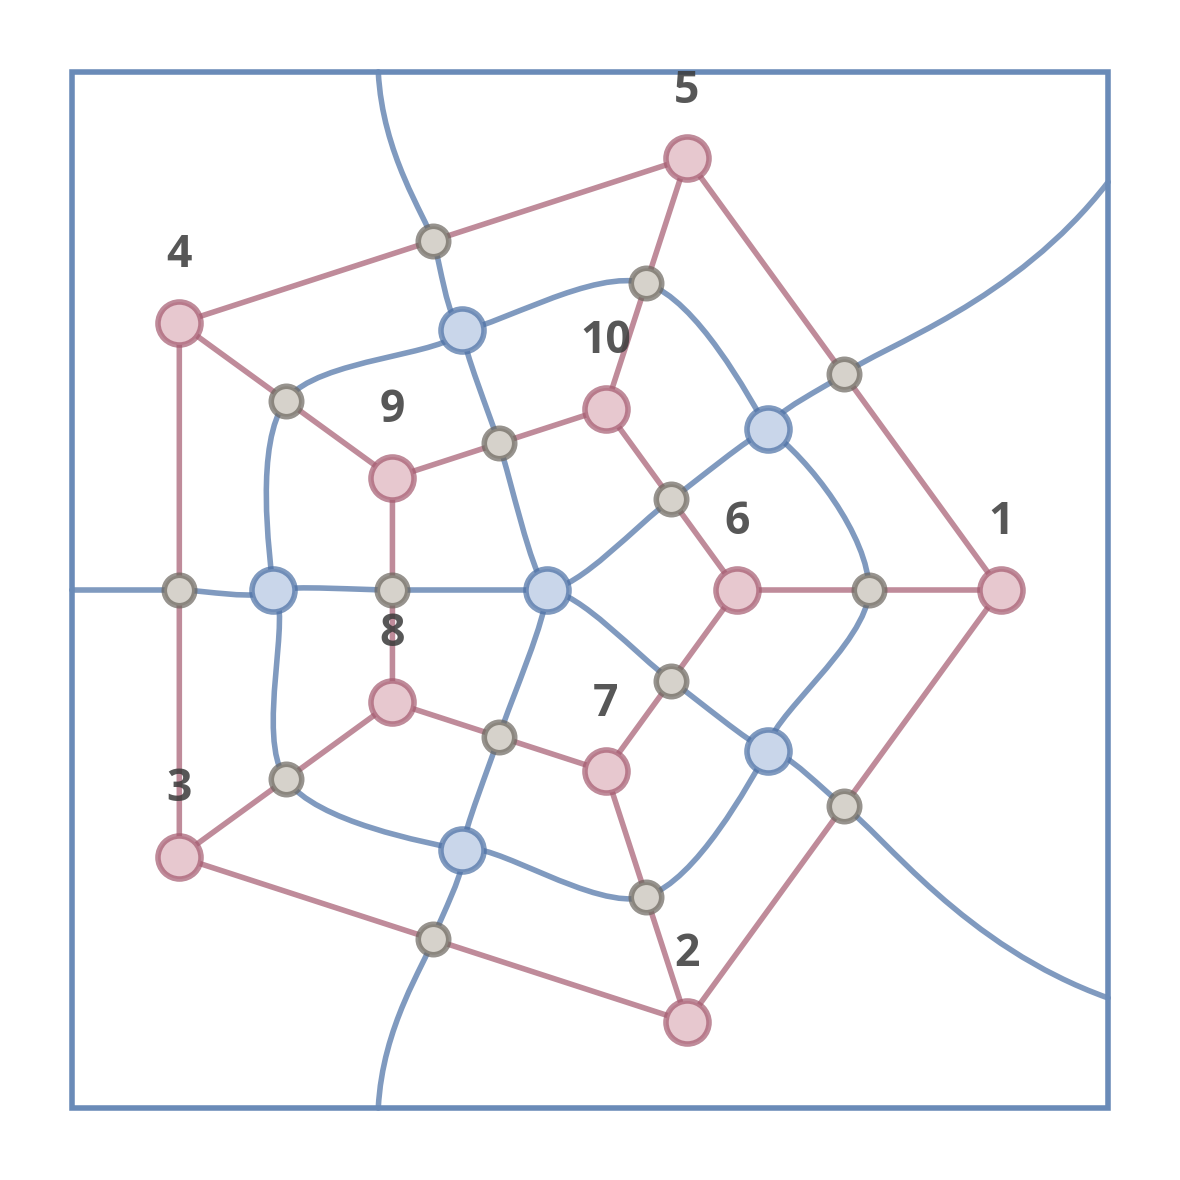
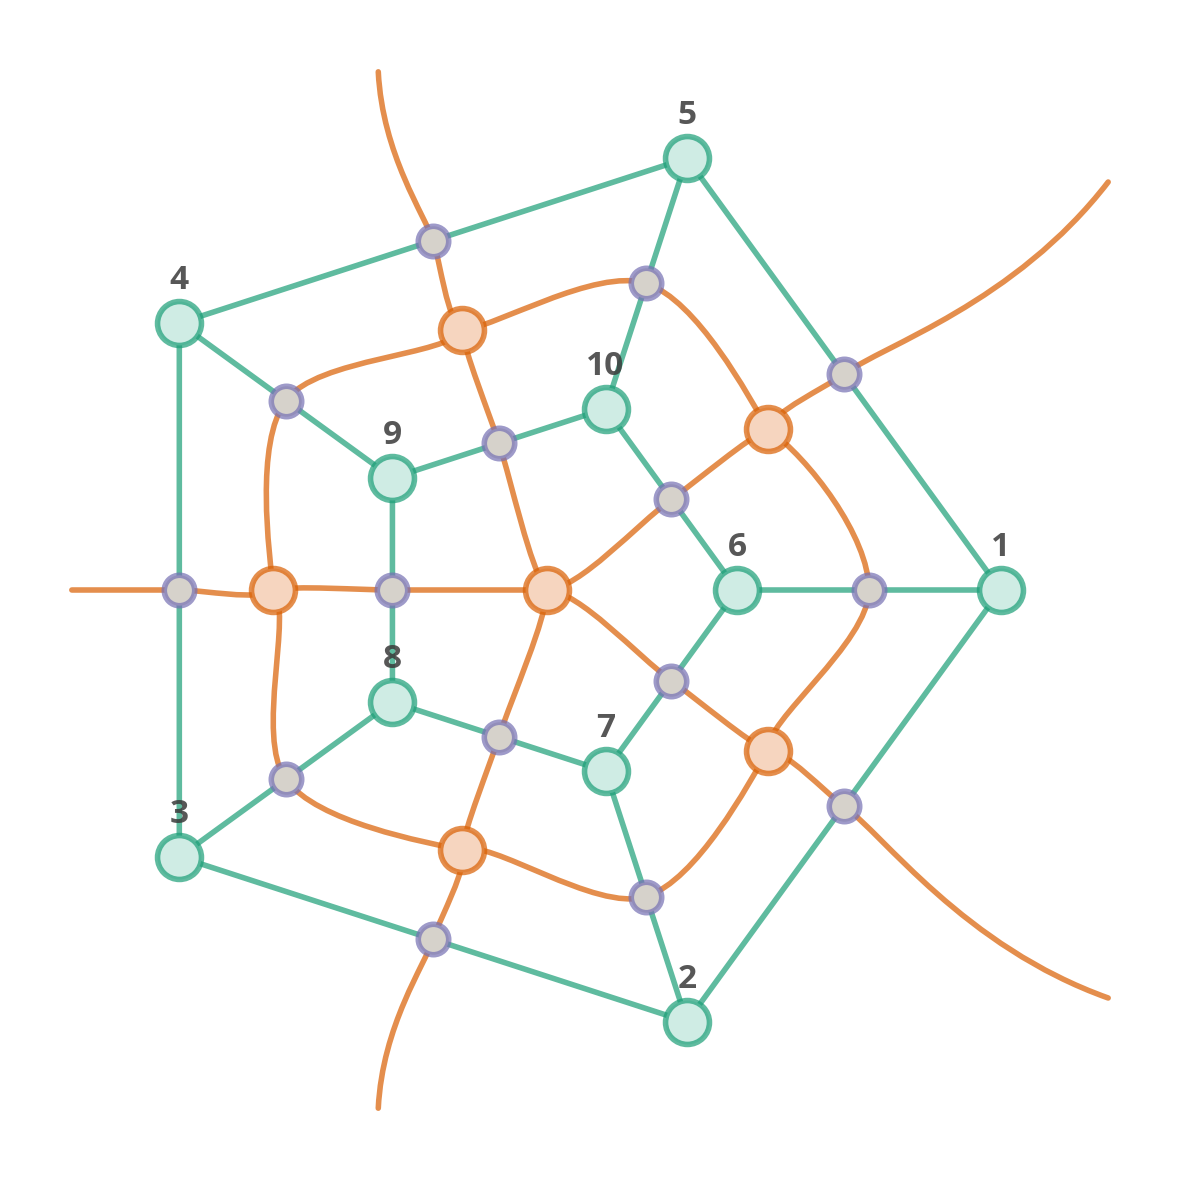
Removed box, changed colours, sorted out save path.

diff --git a/map_rendering.py b/map_rendering.py
@@ -10,6 +10,8 @@ from matplotlib.patches import PathPatch, Rectangle
 from matplotlib.path import Path as MplPath
 from matplotlib.colors import to_rgba
 
+import textwrap
+
 import matplotlib as mpl
 
 mpl.rcParams["svg.fonttype"] = "path"
@@ -18,6 +20,23 @@ mpl.rcParams["pdf.fonttype"] = 42
 # ======================================================================
 # Helpers
 # ======================================================================
+
+
+def wrap_label(text, width):
+    """
+    Wrap label text without splitting words.
+    """
+    if width is None or width <= 0:
+        return text
+
+    return "\n".join(
+        textwrap.wrap(
+            str(text),
+            width=width,
+            break_long_words=False,
+            break_on_hyphens=False,
+        )
+    )
 
 
 def _embedding_faces(embedding):
@@ -1779,7 +1798,14 @@ def get_visual_data(master_embedding, primal_pos, style=None):
             x, y = node_xy[node_id]
             node_labels.append(
                 {
-                    "text": attrs.get("label", str(node_id)),
+                    "text": wrap_label(
+                        attrs.get("label", str(node_id)),
+                        (
+                            style["label_wrap_width"]
+                            if style["label_wrap_enabled"]
+                            else None
+                        ),
+                    ),
                     "xy": (x, y),
                     "node_id": node_id,
                     "type": "region",
@@ -1795,7 +1821,14 @@ def get_visual_data(master_embedding, primal_pos, style=None):
 
             face_labels.append(
                 {
-                    "text": attrs.get("label", str(node_id)),
+                    "text": wrap_label(
+                        attrs.get("label", str(node_id)),
+                        (
+                            style["label_wrap_width"]
+                            if style["label_wrap_enabled"]
+                            else None
+                        ),
+                    ),
                     "xy": node_xy[node_id],
                     "node_id": node_id,
                     "type": "face",
@@ -1901,21 +1934,21 @@ def draw_visual_data(visual_data, style=None):
         draw_nodes(
             node_groups["region"],
             style["region_node_facecolor"],
-            style["region_node_edgecolor"],
+            style["primal_edge_color"],
             style["region_node_size"],
         )
 
     draw_nodes(
         node_groups["border"],
         style["border_node_facecolor"],
-        style["border_node_edgecolor"],
+        style["border_node_color"],
         style["border_node_size"],
     )
 
     draw_nodes(
         node_groups["face"],
         style["face_node_facecolor"],
-        style["face_node_edgecolor"],
+        style["dual_edge_color"],
         style["face_node_size"],
     )
 
@@ -1945,6 +1978,7 @@ def draw_visual_data(visual_data, style=None):
                     edgecolor=style["label_bbox_edgecolor"],
                 ),
                 zorder=style["label_zorder"],
+                linespacing=style["label_linespacing"],
             )
 
     if style["show_face_labels"]:
@@ -1970,29 +2004,7 @@ def draw_visual_data(visual_data, style=None):
             )
 
     # ------------------------------------------------------------
-    # 4. Draw outer square if present
-    # ------------------------------------------------------------
-    outer_square = visual_data.get("outer_square")
-
-    if outer_square is not None:
-        left = outer_square["left"]
-        bottom = outer_square["bottom"]
-        side = outer_square["side"]
-
-        rect = Rectangle(
-            (left, bottom),
-            side,
-            side,
-            facecolor=style["outer_square_facecolor"],
-            edgecolor=style["outer_square_color"],
-            linewidth=style["outer_square_width"],
-            linestyle=style["outer_square_linestyle"],
-            zorder=style["outer_square_zorder"],
-        )
-        ax.add_patch(rect)
-
-    # ------------------------------------------------------------
-    # 5. Final formatting
+    # 4. Final formatting
     # ------------------------------------------------------------
     ax.set_aspect(style["axis_aspect"])
 
@@ -2113,7 +2125,7 @@ def main(filename, weights, refine=True, use_tutte=True):
     base_path = Path(filename)
     stem = base_path.stem
 
-    figures_dir = base_path.parent / "Figures"
+    figures_dir = Path("Figures")
     figures_dir.mkdir(exist_ok=True)
 
     figure_specs = [
@@ -2222,11 +2234,11 @@ VIS_STYLE = {
     "reference_node_count": 10,
     "visual_scale_min": 0.35,
     "visual_scale_max": 1.25,
-    "base_region_label_offset_y": 0.2,
-    "base_region_node_size": 300,
-    "base_border_node_size": 150,
-    "base_face_node_size": 300,
-    "base_font_size": 20,
+    "base_region_label_offset_y": 0.3,
+    "base_region_node_size": 250,
+    "base_border_node_size": 120,
+    "base_face_node_size": 250,
+    "base_font_size": 12,
     "base_edge_width": 2,
     # ------------------------------------------------------------
     # Geometry / construction parameters
@@ -2266,8 +2278,9 @@ VIS_STYLE = {
     # ------------------------------------------------------------
     # Edge styling
     # ------------------------------------------------------------
-    "primal_edge_color": "#A45A6F",
-    "dual_edge_color": "#4A6FA4",
+    "primal_edge_color": "#1B9E77",
+    "dual_edge_color": "#D95F02",
+    "border_node_color": "#7570B3",
     "edge_width": None,
     "edge_alpha": 0.7,
     "edge_capstyle": "round",
@@ -2275,12 +2288,9 @@ VIS_STYLE = {
     # ------------------------------------------------------------
     # Node styling
     # ------------------------------------------------------------
-    "region_node_facecolor": "#E7C8CF",
-    "region_node_edgecolor": "#A45A6F",
+    "region_node_facecolor": "#CFECE4",
     "border_node_facecolor": "#D6D2CB",
-    "border_node_edgecolor": "#6B665E",
-    "face_node_facecolor": "#C9D6EA",
-    "face_node_edgecolor": "#4A6FA4",
+    "face_node_facecolor": "#F6D5BF",
     "region_node_size": None,
     "border_node_size": None,
     "face_node_size": None,
@@ -2296,20 +2306,15 @@ VIS_STYLE = {
     "label_alpha": 0.85,
     "face_label_color": "#aa0000",
     "label_ha": "center",
-    "label_va": "center_baseline",
+    "label_va": "bottom",
     "label_zorder": 4,
     "label_bbox_boxstyle": "round,pad=0.2",
     "label_bbox_facecolor": "#ffffff",
     "label_bbox_alpha": 0,
     "label_bbox_edgecolor": "none",
-    # ------------------------------------------------------------
-    # Outer square styling
-    # ------------------------------------------------------------
-    "outer_square_color": "#6A8BB8",
-    "outer_square_width": 2,
-    "outer_square_linestyle": "-",
-    "outer_square_facecolor": "none",
-    "outer_square_zorder": 2,
+    "label_wrap_enabled": True,
+    "label_wrap_width": 12,
+    "label_linespacing": 0.9,
 }
 
 
@@ -2320,7 +2325,7 @@ VIS_STYLE = {
 # Finally note 'SCALE_PARAM' above the dictionary - this affects font and node sizes and should be tweaked for more or fewer nodes
 
 # Run configuration
-PATH = "raw_data/20260426-Hammer of the Scots.xlsx"
+PATH = "raw_data/20260423-Low Variance.xlsx"
 USE_TUTTE = True  # Whether to use Tutte embedding for initial layout, or just the combinatorial embedding layout. Tutte is often better but can be very slow for larger graphs.
 # Tutte will only work if there are no 'bridges' / danglers in the outer face
 # Otherwise outer face nodes get repeated and it breaks
